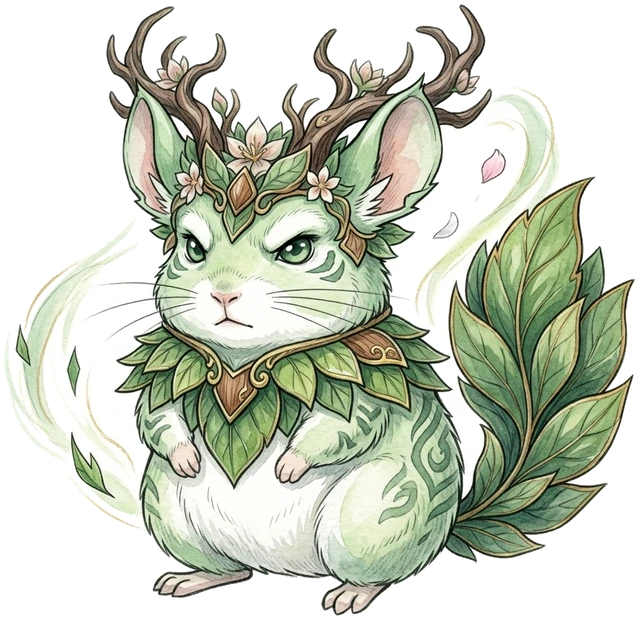
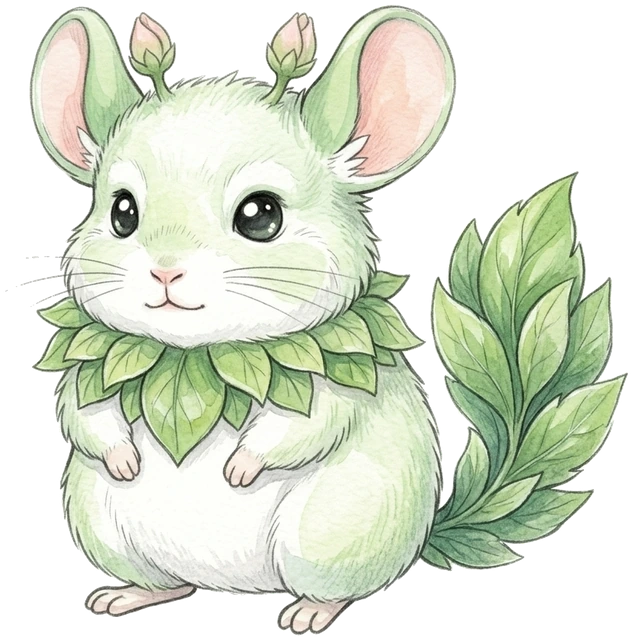
わかばちんちらを本来の初期の姿に差し替え、進化後2段階を1段ずつ繰り上げ

diff --git a/docs/index.html b/docs/index.html
@@ -14,10 +14,10 @@
 <link rel="preconnect" href="https://fonts.googleapis.com">
 <link rel="preconnect" href="https://fonts.gstatic.com" crossorigin>
 <link href="https://fonts.googleapis.com/css2?family=Zen+Maru+Gothic:wght@400;500;700&display=swap" rel="stylesheet">
-<link rel="stylesheet" href="style.css?v=202610152036">
+<link rel="stylesheet" href="style.css?v=202610161833">
 <script>if (/[?&]resume/.test(location.search)) document.documentElement.classList.add('resuming');</script>
 <style>.resuming #title{display:none!important}.resuming #fade{opacity:1!important;transition:none}</style>
-<script type="importmap">{"imports":{"three":"./vendor/three.module.js","three/addons/":"./vendor/addons/","./js/audio.js":"./js/audio.js?v=202610152036","./js/battle.js":"./js/battle.js?v=202610152036","./js/battlesky.js":"./js/battlesky.js?v=202610152036","./js/bgm.js":"./js/bgm.js?v=202610152036","./js/data.js":"./js/data.js?v=202610152036","./js/field.js":"./js/field.js?v=202610152036","./js/game.js":"./js/game.js?v=202610152036","./js/input.js":"./js/input.js?v=202610152036","./js/mapmgr.js":"./js/mapmgr.js?v=202610152036","./js/monsters_extra.js":"./js/monsters_extra.js?v=202610152036","./js/pasture.js":"./js/pasture.js?v=202610152036","./js/season.js":"./js/season.js?v=202610152036","./js/skills_extra.js":"./js/skills_extra.js?v=202610152036","./js/state.js":"./js/state.js?v=202610152036","./js/status.js":"./js/status.js?v=202610152036","./js/swimfish.js":"./js/swimfish.js?v=202610152036","./js/ui.js":"./js/ui.js?v=202610152036","./js/world.js":"./js/world.js?v=202610152036"}}</script>
+<script type="importmap">{"imports":{"three":"./vendor/three.module.js","three/addons/":"./vendor/addons/","./js/audio.js":"./js/audio.js?v=202610161833","./js/battle.js":"./js/battle.js?v=202610161833","./js/battlesky.js":"./js/battlesky.js?v=202610161833","./js/bgm.js":"./js/bgm.js?v=202610161833","./js/data.js":"./js/data.js?v=202610161833","./js/field.js":"./js/field.js?v=202610161833","./js/game.js":"./js/game.js?v=202610161833","./js/input.js":"./js/input.js?v=202610161833","./js/mapmgr.js":"./js/mapmgr.js?v=202610161833","./js/monsters_extra.js":"./js/monsters_extra.js?v=202610161833","./js/pasture.js":"./js/pasture.js?v=202610161833","./js/season.js":"./js/season.js?v=202610161833","./js/skills_extra.js":"./js/skills_extra.js?v=202610161833","./js/state.js":"./js/state.js?v=202610161833","./js/status.js":"./js/status.js?v=202610161833","./js/swimfish.js":"./js/swimfish.js?v=202610161833","./js/ui.js":"./js/ui.js?v=202610161833","./js/world.js":"./js/world.js?v=202610161833"}}</script>
 <script>
 /* 不具合の原因を見つけやすくする: エラーが出たら画面の上に小さく表示(タップで消える) */
 (function () { function show(msg) { try { var d = document.getElementById('errbox'); if (!d) { d = document.createElement('div'); d.id = 'errbox'; d.style.cssText = 'position:fixed;left:6px;right:6px;top:6px;z-index:99999;background:#7a1f1f;color:#fff;font:12px/1.4 monospace;padding:8px 10px;border-radius:8px;max-height:40vh;overflow:auto;white-space:pre-wrap'; d.onclick = function () { d.remove(); }; document.body.appendChild(d); } d.textContent += msg + '\n'; } catch (e) {} }
@@ -79,6 +79,6 @@ setTimeout(function () { var l = document.getElementById('loading'); if (l && !l
   </div>
   <div id="loading"><div class="lbar"><i></i></div><span>よみこみ中...</span></div>
 </div>
-<script type="module" src="js/game.js?v=202610152036"></script>
+<script type="module" src="js/game.js?v=202610161833"></script>
 </body>
 </html>

diff --git a/docs/field.html b/docs/field.html
@@ -14,8 +14,8 @@
 <link rel="preconnect" href="https://fonts.googleapis.com">
 <link rel="preconnect" href="https://fonts.gstatic.com" crossorigin>
 <link href="https://fonts.googleapis.com/css2?family=Zen+Maru+Gothic:wght@400;500;700&display=swap" rel="stylesheet">
-<link rel="stylesheet" href="style.css?v=202610152036">
-<script type="importmap">{"imports":{"three":"./vendor/three.module.js","three/addons/":"./vendor/addons/","./js/audio.js":"./js/audio.js?v=202610152036","./js/battle.js":"./js/battle.js?v=202610152036","./js/battlesky.js":"./js/battlesky.js?v=202610152036","./js/bgm.js":"./js/bgm.js?v=202610152036","./js/data.js":"./js/data.js?v=202610152036","./js/field.js":"./js/field.js?v=202610152036","./js/game.js":"./js/game.js?v=202610152036","./js/input.js":"./js/input.js?v=202610152036","./js/mapmgr.js":"./js/mapmgr.js?v=202610152036","./js/monsters_extra.js":"./js/monsters_extra.js?v=202610152036","./js/pasture.js":"./js/pasture.js?v=202610152036","./js/season.js":"./js/season.js?v=202610152036","./js/skills_extra.js":"./js/skills_extra.js?v=202610152036","./js/state.js":"./js/state.js?v=202610152036","./js/status.js":"./js/status.js?v=202610152036","./js/swimfish.js":"./js/swimfish.js?v=202610152036","./js/ui.js":"./js/ui.js?v=202610152036","./js/world.js":"./js/world.js?v=202610152036"}}</script>
+<link rel="stylesheet" href="style.css?v=202610161833">
+<script type="importmap">{"imports":{"three":"./vendor/three.module.js","three/addons/":"./vendor/addons/","./js/audio.js":"./js/audio.js?v=202610161833","./js/battle.js":"./js/battle.js?v=202610161833","./js/battlesky.js":"./js/battlesky.js?v=202610161833","./js/bgm.js":"./js/bgm.js?v=202610161833","./js/data.js":"./js/data.js?v=202610161833","./js/field.js":"./js/field.js?v=202610161833","./js/game.js":"./js/game.js?v=202610161833","./js/input.js":"./js/input.js?v=202610161833","./js/mapmgr.js":"./js/mapmgr.js?v=202610161833","./js/monsters_extra.js":"./js/monsters_extra.js?v=202610161833","./js/pasture.js":"./js/pasture.js?v=202610161833","./js/season.js":"./js/season.js?v=202610161833","./js/skills_extra.js":"./js/skills_extra.js?v=202610161833","./js/state.js":"./js/state.js?v=202610161833","./js/status.js":"./js/status.js?v=202610161833","./js/swimfish.js":"./js/swimfish.js?v=202610161833","./js/ui.js":"./js/ui.js?v=202610161833","./js/world.js":"./js/world.js?v=202610161833"}}</script>
 <script>
 /* 不具合の原因を見つけやすくする: エラーが出たら画面の上に小さく表示(タップで消える) */
 (function () { function show(msg) { try { var d = document.getElementById('errbox'); if (!d) { d = document.createElement('div'); d.id = 'errbox'; d.style.cssText = 'position:fixed;left:6px;right:6px;top:6px;z-index:99999;background:#7a1f1f;color:#fff;font:12px/1.4 monospace;padding:8px 10px;border-radius:8px;max-height:40vh;overflow:auto;white-space:pre-wrap'; d.onclick = function () { d.remove(); }; document.body.appendChild(d); } d.textContent += msg + '\n'; } catch (e) {} }
@@ -64,6 +64,6 @@
 
 <div id="loading2" style="position:fixed;inset:0;z-index:50;display:grid;place-items:center;background:#2c1f14;color:#f4ead2;font-size:16px;transition:opacity .5s">よみこみ中...</div>
 <style>#loading2.done{opacity:0;pointer-events:none}</style>
-<script type="module" src="js/field.js?v=202610152036"></script>
+<script type="module" src="js/field.js?v=202610161833"></script>
 </body>
 </html>
